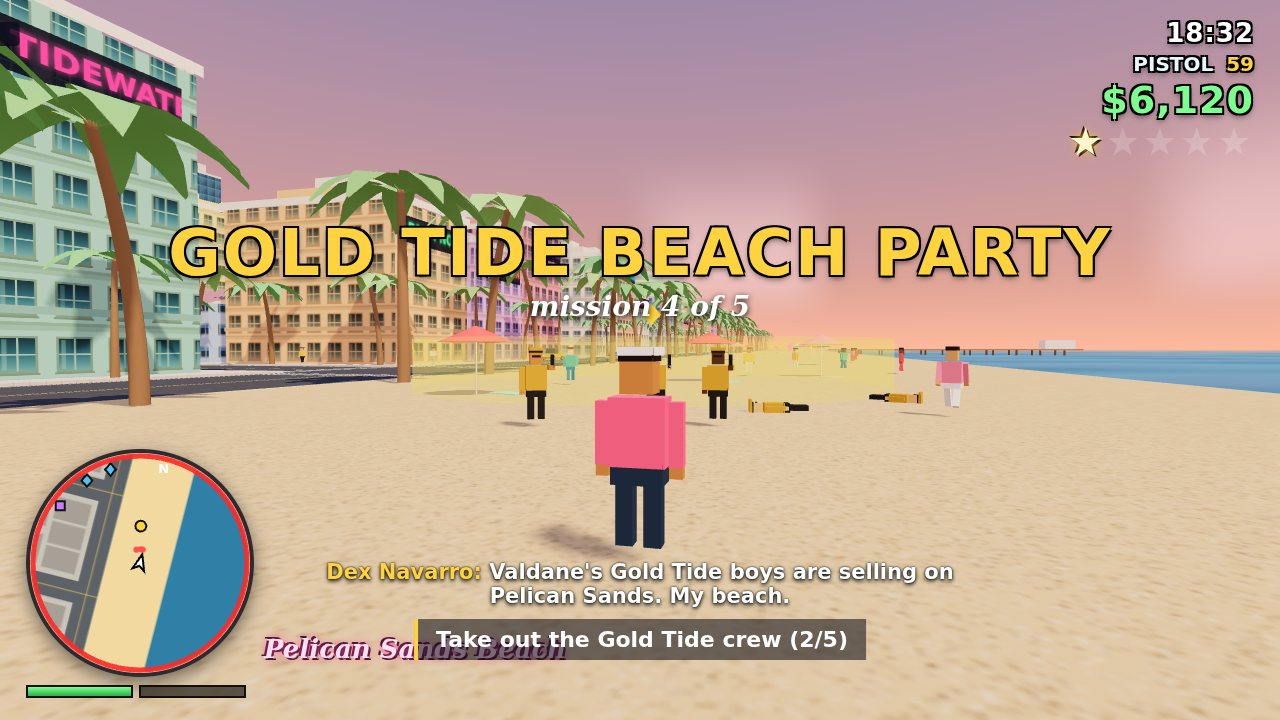
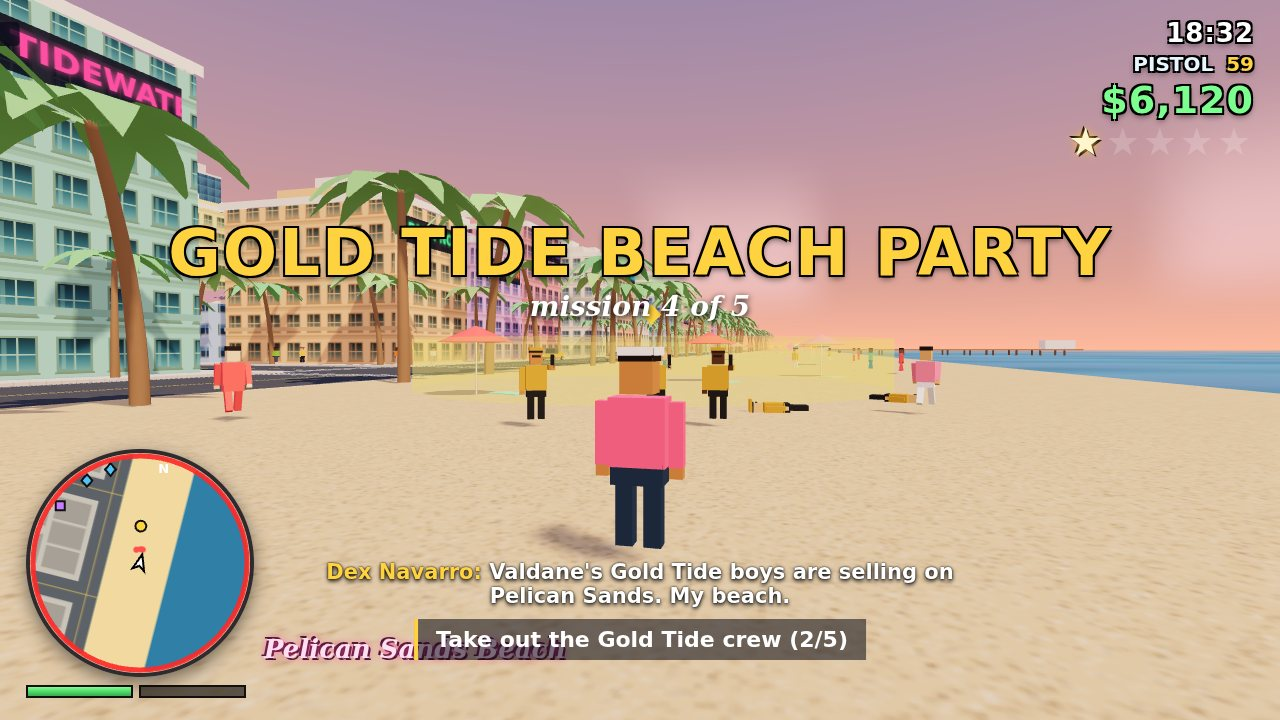
Skid marks from sliding tyres; re-rendered screenshots

Changed region(s): [[0.6562, 0.4583, 0.7812, 0.5806], [0.1562, 0.4583, 0.2188, 0.5806], [0.4375, 0.4889, 0.4688, 0.5194]]

diff --git a/game/src/gameplay/effects.js b/game/src/gameplay/effects.js
@@ -76,7 +76,24 @@ export const fx = {
     scene.add(l);
     tracers.push({ l, t: 0.07 });
   },
+  // rubber left on the asphalt by sliding tyres (a ring buffer of instanced quads)
+  skid(x, z, h) {
+    if (!skids) {
+      skids = new THREE.InstancedMesh(new THREE.PlaneGeometry(0.32, 0.9).rotateX(-Math.PI / 2), new THREE.MeshBasicMaterial({ color: 0x111111, transparent: true, opacity: 0.45, depthWrite: false, polygonOffset: true, polygonOffsetFactor: -4 }), SKIDS);
+      skids.count = SKIDS; skids.frustumCulled = false;
+      const hide = new THREE.Matrix4().makeTranslation(0, -100, 0);
+      for (let i = 0; i < SKIDS; i++) skids.setMatrixAt(i, hide);
+      scene.add(skids);
+    }
+    skidM.makeRotationY(h).setPosition(x, 0.03, z);
+    skids.setMatrixAt(skidIdx, skidM);
+    skidIdx = (skidIdx + 1) % SKIDS;
+    skids.instanceMatrix.needsUpdate = true;
+  },
 };
+const SKIDS = 600;
+let skids = null, skidIdx = 0;
+const skidM = new THREE.Matrix4();
 
 // Two persistent lights reused for blasts (adding lights at run time would recompile shaders).
 const flashes = [];

diff --git a/game/src/actors/vehicles.js b/game/src/actors/vehicles.js
@@ -256,6 +256,11 @@ export class Vehicle {
     if (this.slip > 5 && Math.abs(this.speed) > 6 && Math.random() < dt * 30) {
       fx.tireSmoke(this.x - this.forward.x * this.spec.len * 0.35, this.z - this.forward.z * this.spec.len * 0.35);
     }
+    if (this.slip > 3.5 && this.y < 0.1 && G.time - (this.lastSkid ?? 0) > 0.05) {
+      this.lastSkid = G.time;
+      const f = this.forward, back = this.spec.len / 2 - 0.85, side = this.spec.w / 2 - 0.12;
+      for (const s of [-1, 1]) fx.skid(this.x - f.x * back + f.z * side * s, this.z - f.z * back - f.x * side * s, Math.atan2(this.vx, this.vz));
+    }
   }
 
   remove() {
